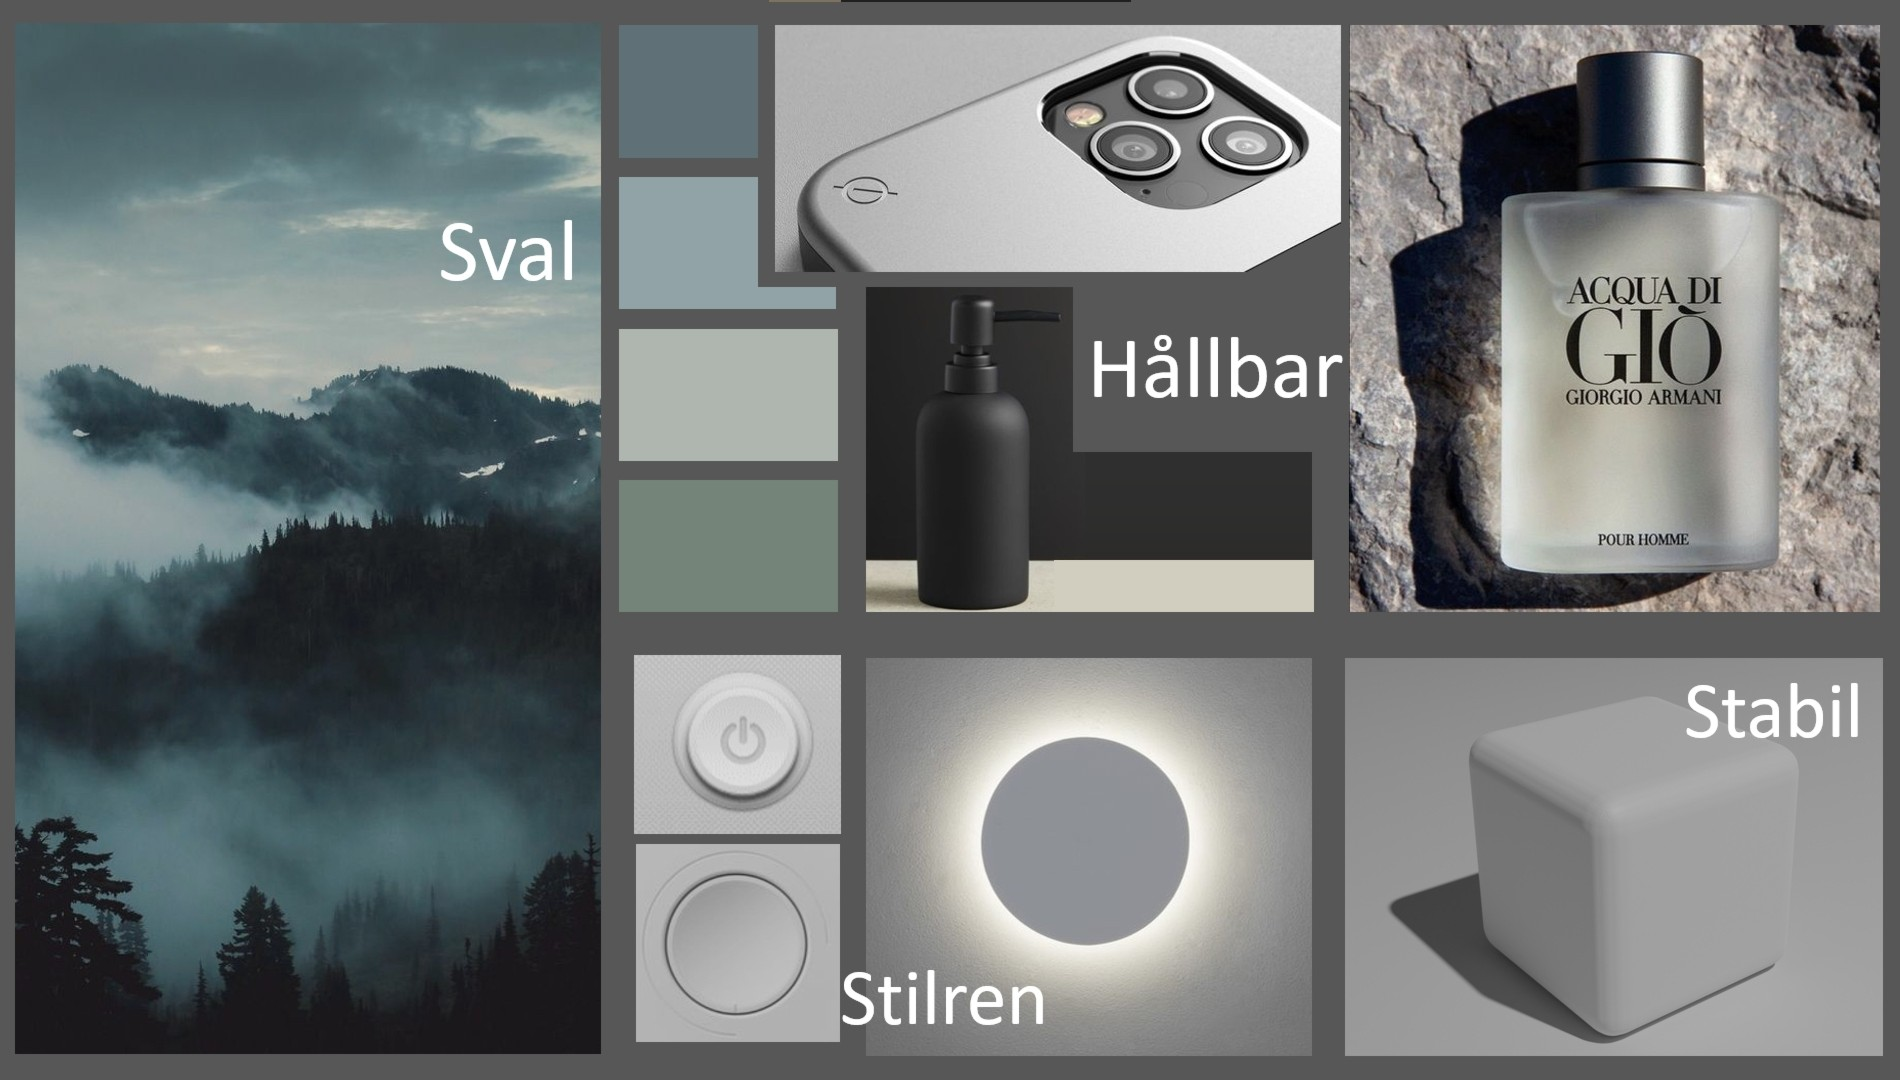
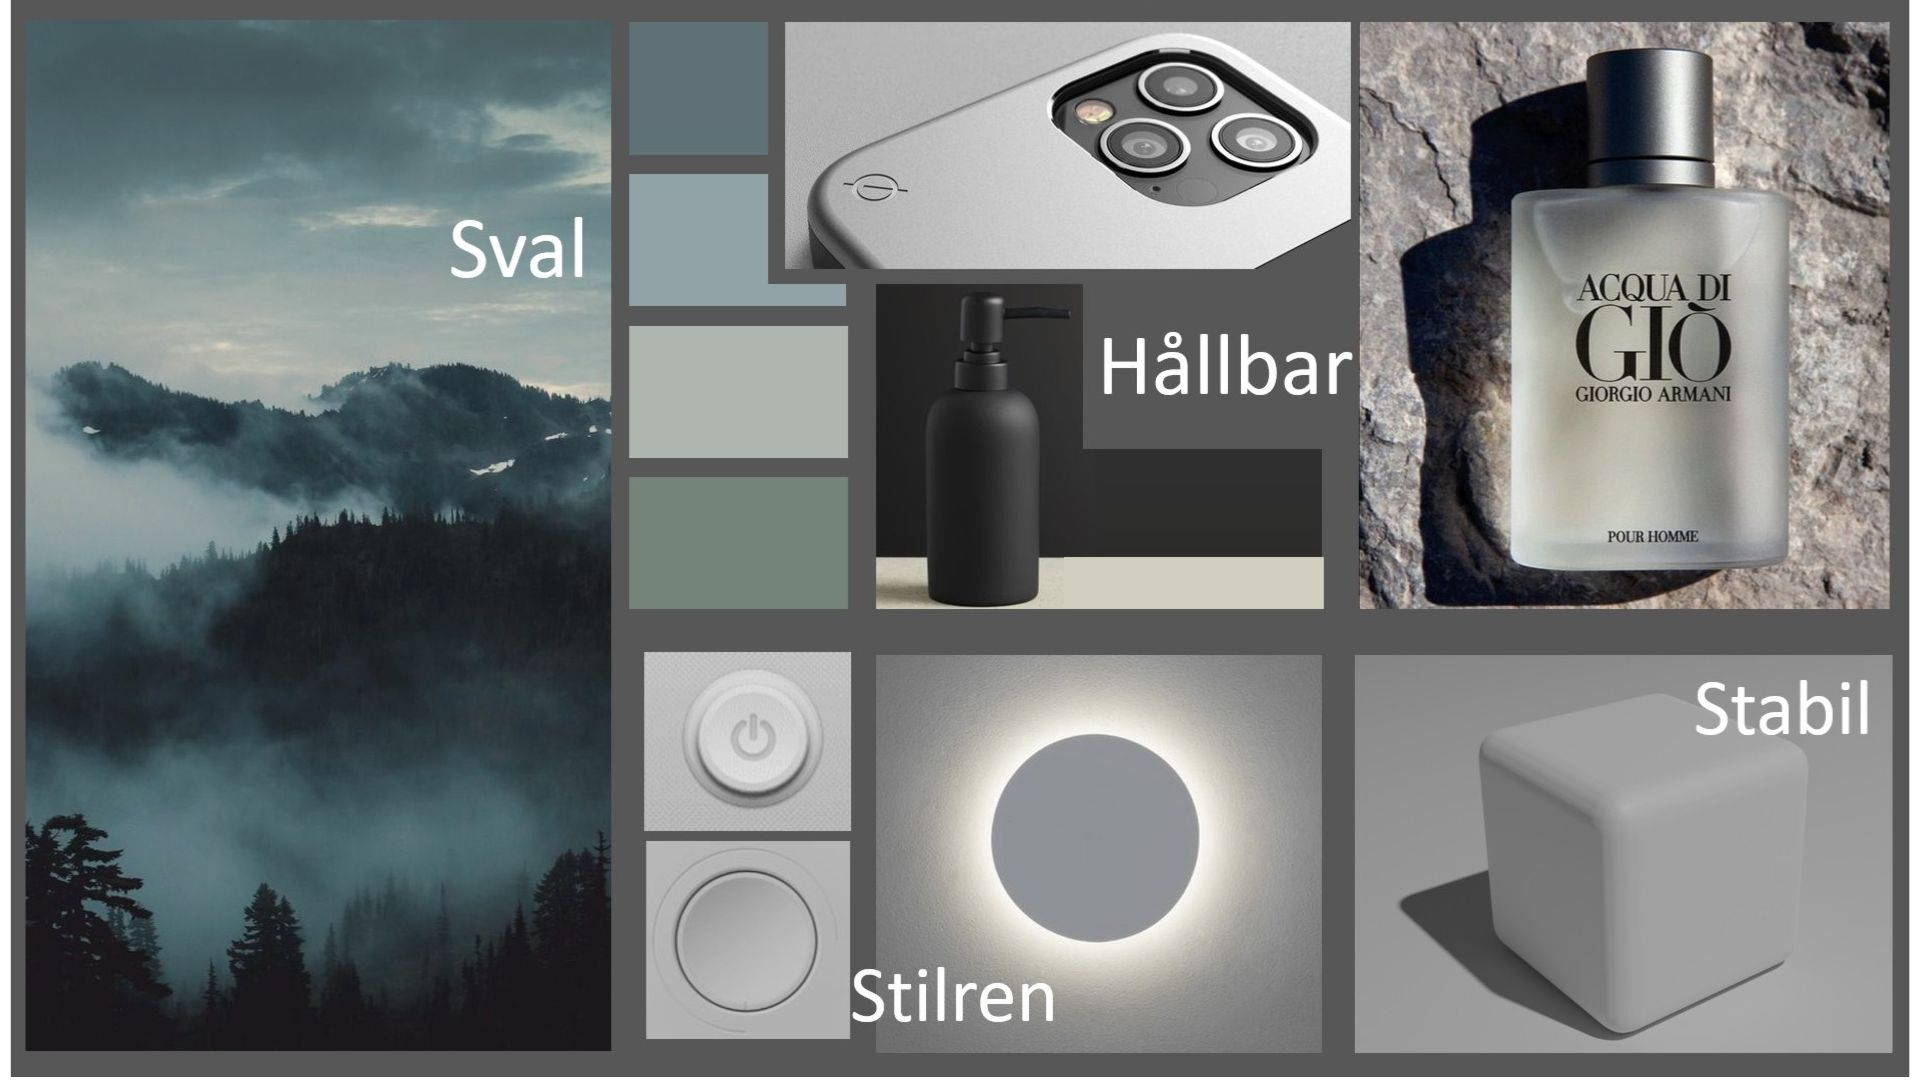
Fixing the order of images and sizes

diff --git a/portfolio.html b/portfolio.html
@@ -12,16 +12,18 @@
     </header>
 
     <section class="category-container">
-        <img src="images/poster.jpg" alt="Image of poster assignment">
         <img src="images/moodboard.jpg" alt="Image of moodboard">        
-        <img src="images/painting.JPEG" alt="Image of a painting">
+        <img src="images/photograph.JPEG" alt="Image of photo">        
         <img src="images/sketch.jpg" alt="Image of a sketch">
-        <img src="images/photograph.JPEG" alt="Image of photo">
+        <img src="images/painting.JPEG" alt="Image of a painting">        
+        <img src="images/poster.jpg" alt="Image of poster assignment">
+   
+
     </section>
 
 
 
-    <footer>
+<footer>
         <p>© 2025 Lovisa Garnemark. All rights reserved</p>
 </footer>
 

diff --git a/css/main.css b/css/main.css
@@ -13,13 +13,20 @@ header {
     padding: 20px 0;
 }
 
+/* Catebory images */
 .category-container{
-    
+    width: 80%;
     display: grid;
-    grid-template-columns:
-    'img img img'
-    'img img';
-    width: 10%;
+    grid-template-columns: repeat(2, 1fr);
+    gap: 80px;
+}
+
+.category-container img {
+    width: 100%;
+    object-fit: cover;
+    margin-top: 5rem;
+    margin-left: 9rem;
+    margin-bottom: 5rem;
 }
 
 /*"Welcome to my page!"*/
